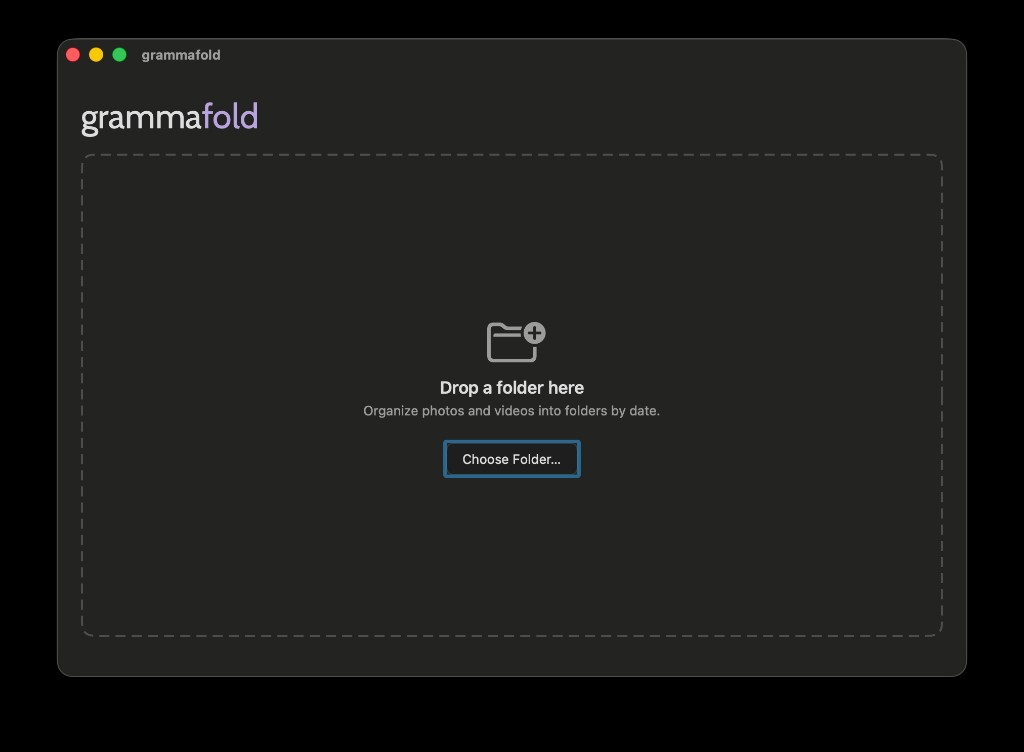
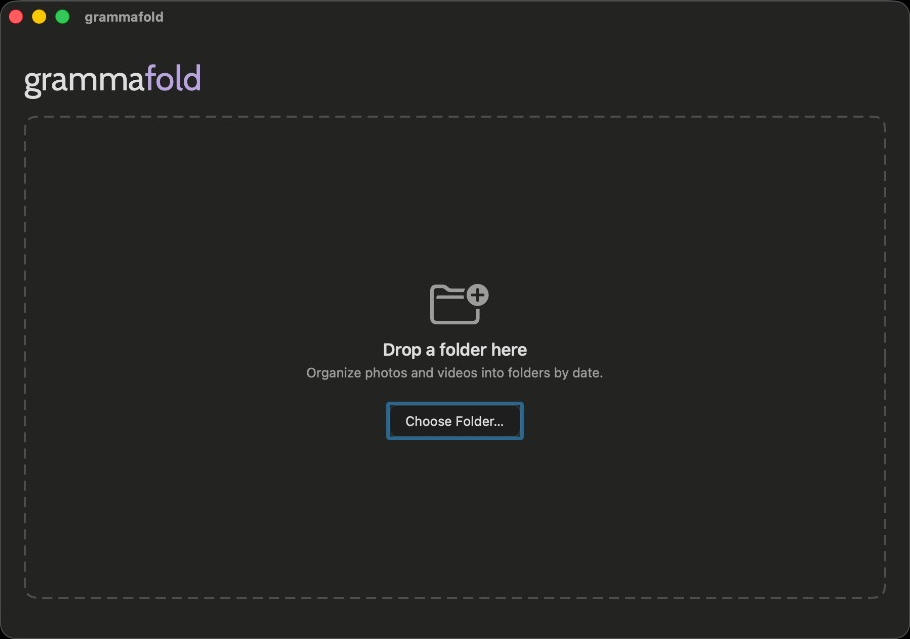
Fix drop-folder screenshot and How it works layout.
Crop dark letterboxing from the hero image and show all steps on the left with screenshots stacked on the right.

diff --git a/gramma/grammafold/index.html b/gramma/grammafold/index.html
@@ -83,50 +83,36 @@
         <h2 id="how-title" class="section__title">How it works</h2>
         <p class="section__lead">Four steps from scattered files to a tidy archive — with a full preview before anything moves.</p>
 
-        <div class="workflow-screenshots">
-          <article class="workflow-shot">
-            <div class="workflow-shot__text">
+        <div class="workflow-split">
+          <ol class="workflow-steps">
+            <li class="workflow-step">
               <p class="workflow-shot__step">Step 1</p>
               <h3 class="workflow-shot__title">Drop a folder</h3>
               <p>Drag a folder into Grammafold or use Choose Folder&hellip; (<kbd>⌘O</kbd>). The app scans recursively with no depth limit.</p>
-            </div>
-            <div class="workflow-shot__media">
-              <img class="screenshot" src="assets/screenshots/01-drop-folder.png" width="900" height="563" alt="Grammafold welcome screen with drop zone and Choose Folder button">
-            </div>
-          </article>
-
-          <article class="workflow-shot workflow-shot--reverse">
-            <div class="workflow-shot__text">
+            </li>
+            <li class="workflow-step">
               <p class="workflow-shot__step">Step 2</p>
               <h3 class="workflow-shot__title">Scan your archive</h3>
               <p>Grammafold reads EXIF and video metadata from every supported file. Progress is shown as thousands of files are indexed.</p>
-            </div>
-            <div class="workflow-shot__media">
-              <img class="screenshot" src="assets/screenshots/02-scanning.png" width="900" height="563" alt="Grammafold scanning 11,782 files with progress bar">
-            </div>
-          </article>
-
-          <article class="workflow-shot">
-            <div class="workflow-shot__text">
+            </li>
+            <li class="workflow-step">
               <p class="workflow-shot__step">Step 3</p>
               <h3 class="workflow-shot__title">Preview every move</h3>
               <p>Review the full organization plan before confirming — including year folders, date subfolders, fallback dates, and collisions. Choose your preferred date format.</p>
-            </div>
-            <div class="workflow-shot__media">
-              <img class="screenshot" src="assets/screenshots/03-preview.png" width="900" height="563" alt="Grammafold preview showing files organized by year with 11,782 files ready to organize">
-            </div>
-          </article>
-
-          <article class="workflow-shot workflow-shot--reverse">
-            <div class="workflow-shot__text">
+            </li>
+            <li class="workflow-step">
               <p class="workflow-shot__step">Step 4</p>
               <h3 class="workflow-shot__title">Organize and undo</h3>
               <p>Confirm to move files into date subfolders inside your selected folder. Changed your mind? Undo restores everything to its original layout.</p>
-            </div>
-            <div class="workflow-shot__media">
-              <img class="screenshot" src="assets/screenshots/05-organized.png" width="900" height="563" alt="Grammafold success screen showing 11,782 files moved into date folders with Undo option">
-            </div>
-          </article>
+            </li>
+          </ol>
+
+          <div class="workflow-gallery" aria-label="App screenshots">
+            <img class="screenshot" src="assets/screenshots/01-drop-folder.png" width="900" height="563" alt="Grammafold welcome screen with drop zone and Choose Folder button">
+            <img class="screenshot" src="assets/screenshots/02-scanning.png" width="900" height="563" alt="Grammafold scanning 11,782 files with progress bar">
+            <img class="screenshot" src="assets/screenshots/03-preview.png" width="900" height="563" alt="Grammafold preview showing files organized by year with 11,782 files ready to organize">
+            <img class="screenshot" src="assets/screenshots/05-organized.png" width="900" height="563" alt="Grammafold success screen showing 11,782 files moved into date folders with Undo option">
+          </div>
         </div>
       </div>
     </section>

diff --git a/gramma/grammafold/css/styles.css b/gramma/grammafold/css/styles.css
@@ -341,6 +341,7 @@ summary:focus-visible {
   border-radius: var(--dropzone-radius);
   border: 1px solid var(--color-border);
   box-shadow: 0 8px 32px rgba(0, 0, 0, 0.12);
+  background: #ececee;
 }
 
 /* Sections */
@@ -607,6 +608,39 @@ summary:focus-visible {
   gap: 40px;
 }
 
+.workflow-split {
+  display: grid;
+  grid-template-columns: minmax(240px, 1fr) minmax(0, 1.5fr);
+  gap: 32px;
+  align-items: start;
+}
+
+.workflow-steps {
+  list-style: none;
+  margin: 0;
+  padding: 0;
+  display: flex;
+  flex-direction: column;
+  gap: 32px;
+}
+
+.workflow-step {
+  padding: 0;
+}
+
+.workflow-step p:last-child {
+  margin: 0;
+  font-size: 15px;
+  color: var(--color-text-secondary);
+  line-height: 1.5;
+}
+
+.workflow-gallery {
+  display: flex;
+  flex-direction: column;
+  gap: 16px;
+}
+
 .workflow-shot {
   display: grid;
   grid-template-columns: 1fr 1.4fr;
@@ -661,6 +695,10 @@ summary:focus-visible {
 }
 
 @media (max-width: 768px) {
+  .workflow-split {
+    grid-template-columns: 1fr;
+  }
+
   .workflow-shot,
   .workflow-shot--reverse {
     grid-template-columns: 1fr;
